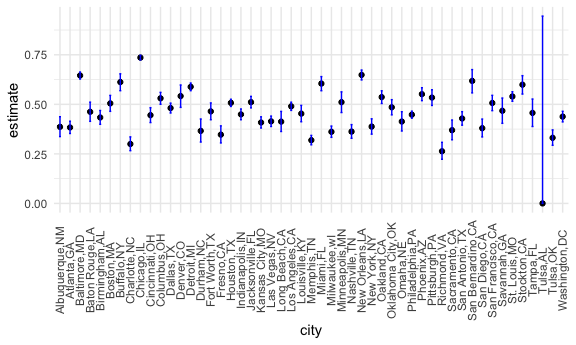
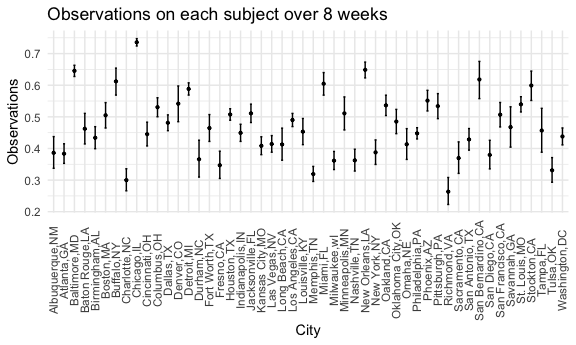
Finish!

diff --git a/p8105_hw5_my2838.md b/p8105_hw5_my2838.md
@@ -20,6 +20,8 @@ library(tidyverse)
 library(ggplot2)
 library(dplyr)
 
+set.seed(123)
+
 knitr::opts_chunk$set(
     echo = TRUE,
     warning = FALSE,
@@ -69,7 +71,8 @@ homicide_city =
   ungroup() |>
   mutate_all(~replace_na(., 0)) |>
   mutate(unsolved = closed_without_arrest + open_no_arrest,
-         sum = closed_without_arrest + open_no_arrest + closed_by_arrest) 
+         sum = closed_without_arrest + open_no_arrest + closed_by_arrest) |>
+  filter(city_state != "Tulsa,AL")
 ```
 
 ``` r
@@ -105,9 +108,158 @@ city = data.frame(city = pull(homicide_city, city_state))
 prob_test_res = purrr::map_df(pull(homicide_city, city_state), prop_test)
 prob_city = bind_cols(city, prob_test_res) 
 ggplot(prob_city, aes(x = city, y = estimate)) +
-  geom_point() +
-  geom_errorbar(aes(ymin = conf.low, ymax = conf.high), width = 0.2, color = "blue") +
+  geom_point(size = 0.8) +
+  geom_errorbar(aes(ymin = conf.low, ymax = conf.high), width = 0.2) +
+  labs(
+  title="Observations on each subject over 8 weeks",
+  x="City",
+  y="Observations") +
   theme(axis.text.x = element_text(angle = 90, hjust = 0.5, vjust = 0.5))
 ```
 
 <img src="p8105_hw5_my2838_files/figure-gfm/unnamed-chunk-4-1.png" width="90%" />
+
+# Problem 2
+
+Import the data from the zip file.
+
+``` r
+full_data=
+  tibble(
+  files=list.files(path="data", full.names = TRUE))  |> 
+  mutate(data=map(files,read.csv)) |>
+  unnest(everything())
+```
+
+Create a tidy dataframe containing data from all participants, including
+the subject ID, arm, and observations over time:
+
+``` r
+tidy_data=
+  full_data |> 
+  mutate(
+    arm=ifelse(str_detect(files,"con"),"control","exprimental"),
+    id=str_extract(files,"\\d+")
+  ) |> 
+  pivot_longer(
+    cols=starts_with("week"),
+    names_to ="week",
+    values_to ="observations"
+  ) |> 
+  mutate(
+    week=as.numeric(str_extract(week,"\\d+")))
+```
+
+Make a spaghetti plot showing observations on each subject over time.
+
+``` r
+ggplot(tidy_data, aes(x = week, y = observations, color = id)) +
+  geom_line( alpha = 0.5 )+
+  facet_wrap(.~arm)+
+  labs(
+    title="Observations over 8 weeks",
+    x="Week",
+    y="Observations"
+    )
+```
+
+<img src="p8105_hw5_my2838_files/figure-gfm/unnamed-chunk-7-1.png" width="90%" />
+
+**Comment:** Over 8 weeks, the control arm group remain the same level,
+while the experimental arm group show an increasing trend.
+
+# Problem 3
+
+First, set the design elements and function.
+
+``` r
+sim_t_test = function(mu){
+test_res = 
+  t.test(rnorm(n = 30, mean = mu, sd = 5)) |>
+    broom::tidy() |>
+    select(estimate, p.value)
+
+  test_res
+}
+```
+
+Set μ=0. Generate 5000 datasets from the model.
+
+``` r
+mean_0 =
+  expand_grid( mu = 0, time = 1:5000) |>
+  mutate(t_test_res = map(mu, sim_t_test)) |>
+  unnest(t_test_res)
+```
+
+Repeat the above for μ={1,2,3,4,5,6}.
+
+``` r
+mean =
+  expand_grid( mu = 1:6, time = 1:5000 ) |>
+  mutate(t_test_res = map(mu, sim_t_test)) |>
+  unnest(t_test_res)
+```
+
+Make a plot showing the proportion of times the null was rejected (the
+power of the test) on the y axis and the true value of μ on the x axis.
+
+``` r
+test_power = 
+  mean |>
+  filter(p.value < 0.05) |>
+  group_by(mu) |>
+  count() |>
+  mutate(power = n / 5000)
+
+ggplot(test_power, aes(x = mu, y = power)) +
+  geom_point() + 
+  geom_line(alpha = 0.5) +
+  labs(x = "True Mean", y = "Power", title = "Proportion rejected the null (the power) vs. true value of μ")
+```
+
+<img src="p8105_hw5_my2838_files/figure-gfm/unnamed-chunk-11-1.png" width="90%" />
+
+**Comment:** From the plot, we can see the power increases when the true
+mean increases.
+
+``` r
+test_avg_estimate_all = 
+  mean |>
+  group_by(mu) |>
+  summarise(avg_estimate = mean(estimate)) 
+
+test_avg_estimate_reject = 
+  mean |>
+  filter(p.value < 0.05) |>
+  group_by(mu) |>
+  summarise(avg_estimate = mean(estimate)) 
+  
+  
+ggplot() +
+  geom_point(data = test_avg_estimate_all, aes(x = mu, y = mu, color = "Ture Value")) + 
+  geom_line(data = test_avg_estimate_all, aes(x = mu, y = mu, color = "Ture Value")) + 
+  geom_point(data = test_avg_estimate_all, aes(x = mu, y = avg_estimate, color = "All test")) + 
+  geom_line(data = test_avg_estimate_all, aes(x = mu, y = avg_estimate, color = "All test", alpha = 0.5)) + 
+  geom_point(data = test_avg_estimate_reject, aes(x = mu, y = avg_estimate 
+, color = "Only the null was rejected")) +
+  geom_line(data = test_avg_estimate_reject, aes(x = mu, y = avg_estimate 
+, color = "Only the null was rejected", alpha = 0.5)) +
+  scale_color_manual(values = c("Ture Value" = "red", "All test" = "purple", "Only the null was rejected" ="blue")) +
+  labs(x = "True Mean", y = "Average Estimate Mean", title = "All vs. Only Rejected Estimates") 
+```
+
+<img src="p8105_hw5_my2838_files/figure-gfm/unnamed-chunk-12-1.png" width="90%" />
+
+**Comment:** From the plot, when the true mean is less than 4, we can
+see a difference between the average estimate means between only the
+tests which the null is rejected and all tests, so they are **not
+approximately equal**.
+
+when the true mean is greater than 4, The average estimate means between
+only the tests which the null is rejected and all tests are
+**approximately equal**.
+
+The reason may be that in our previous plot, we can see the power is
+approximately equal to 1 when the true mean is greater than 4, which
+means that the null is rejected in almost all test.
